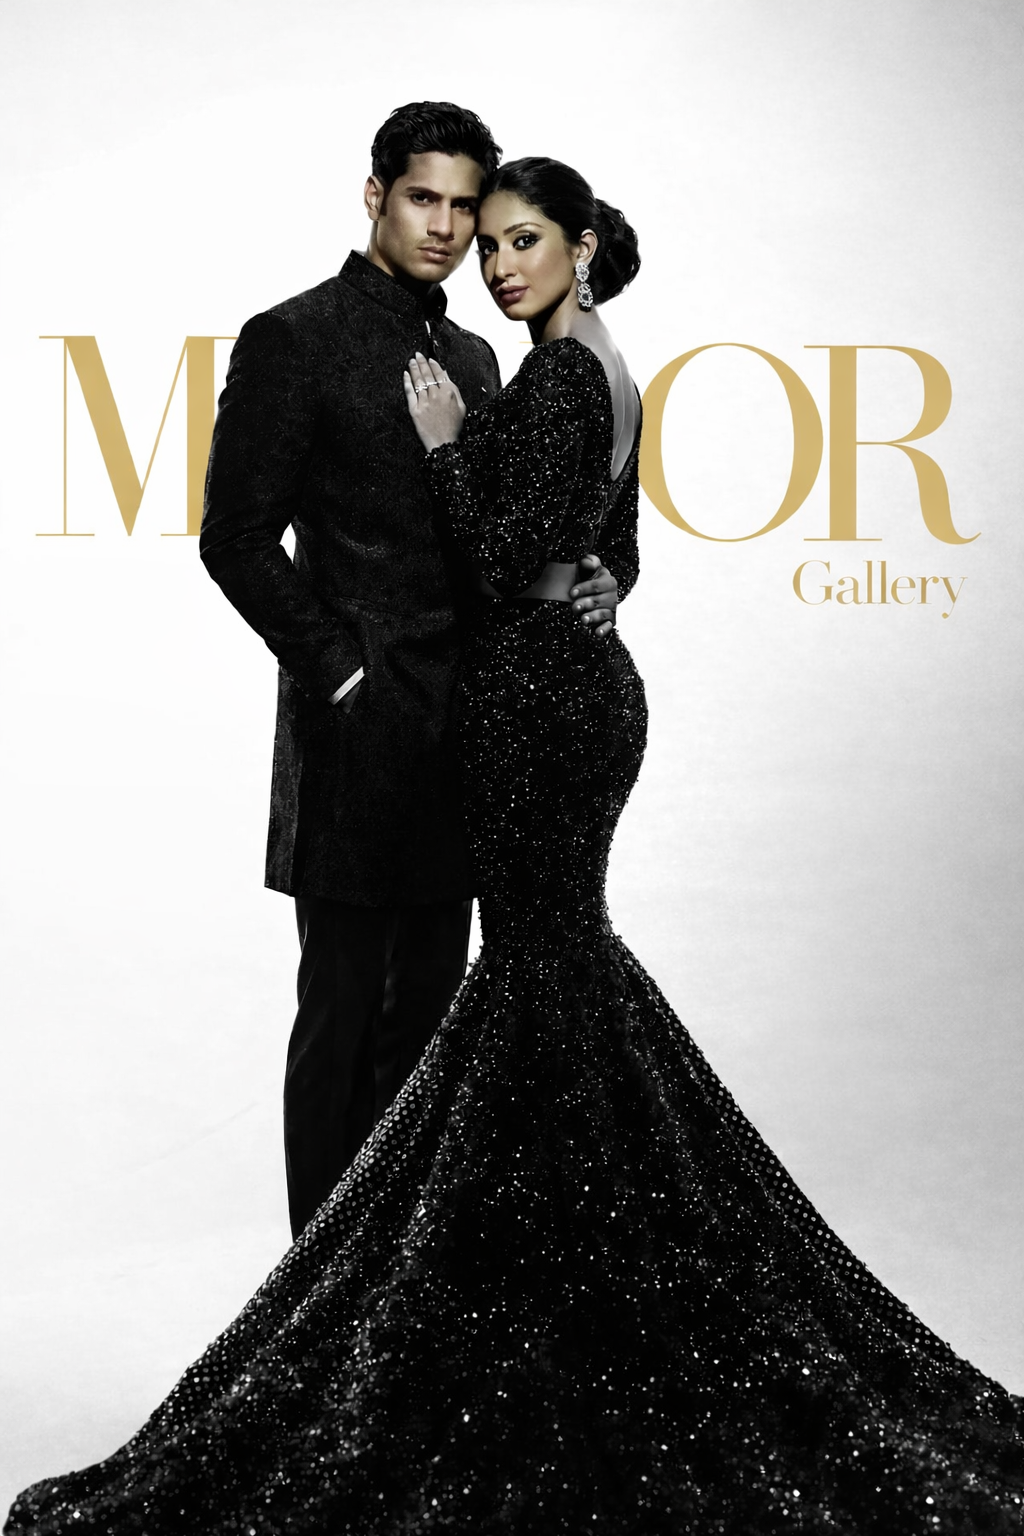
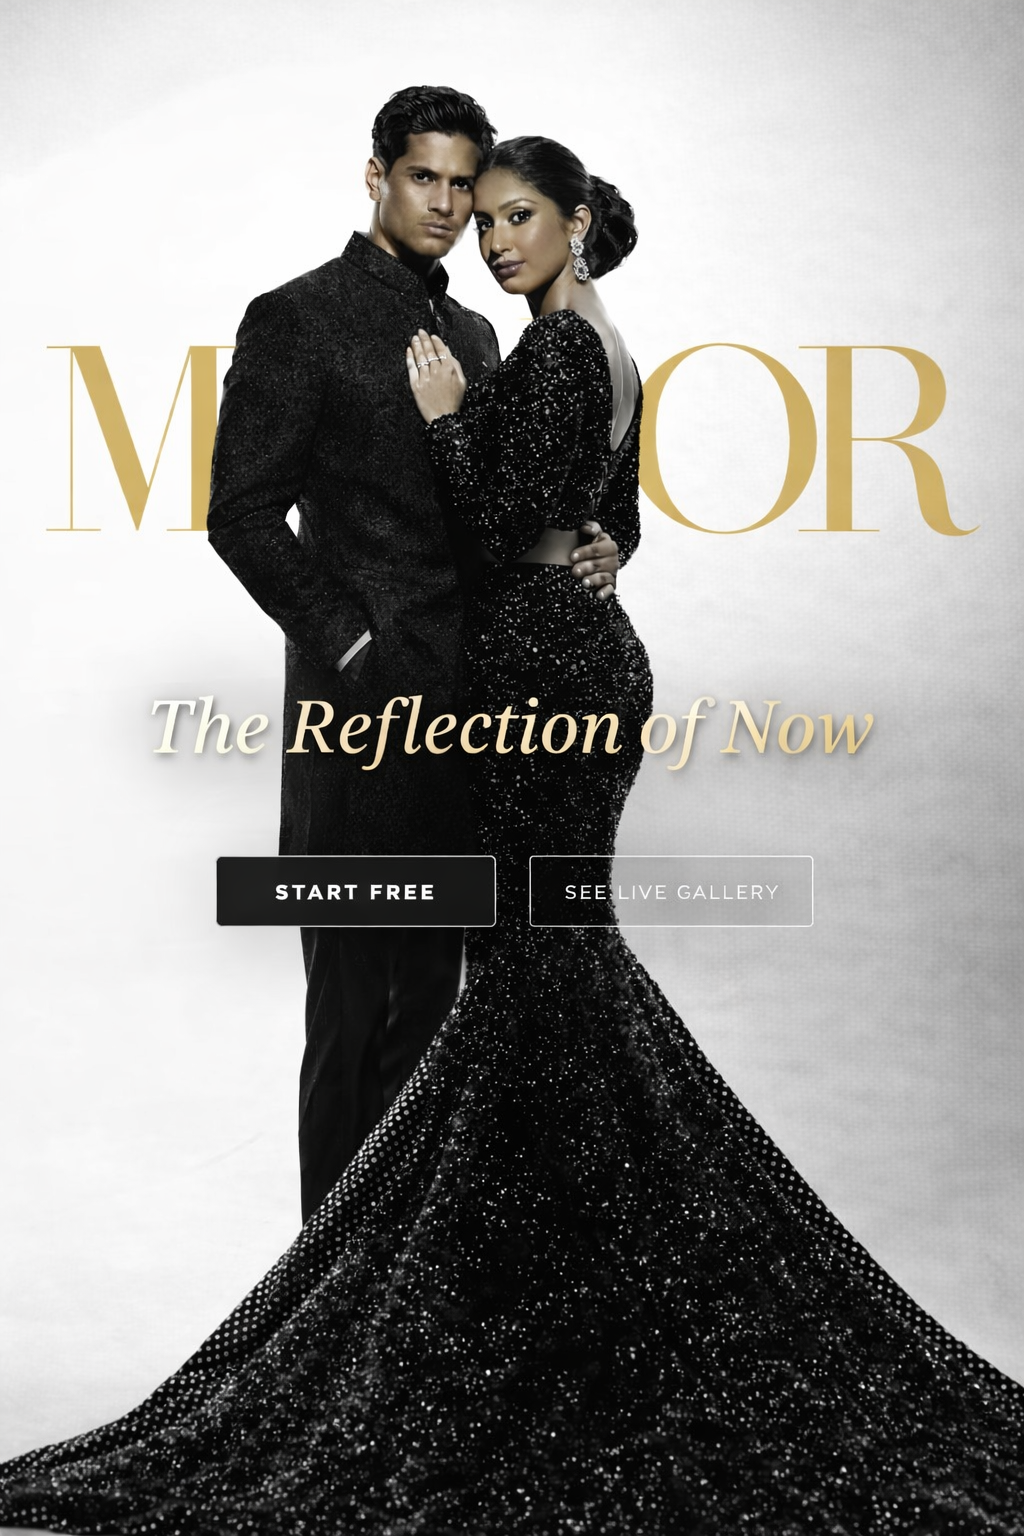
Changes

Changed region(s): [[0.0, 0.0312, 1.0, 1.0], [0.9688, 0.8125, 1.0, 0.8438]]

diff --git a/src/pages/LandingPage.tsx b/src/pages/LandingPage.tsx
@@ -5,51 +5,31 @@ const LandingPage = () => {
   const navigate = useNavigate();
 
   return (
-    <div className="relative h-[100dvh] w-full overflow-hidden">
-      {/* Fullscreen hero image */}
+    <div className="relative min-h-[100dvh] w-full flex flex-col items-center bg-[#e8e4de]">
+      {/* Hero image — final art, no overlays, no modifications */}
       <img
         src="/images/hero-bg.png"
-        alt=""
-        className="absolute inset-0 h-full w-full object-cover object-top"
+        alt="MirrorAI — The Reflection of Now"
+        className="w-full max-h-[85dvh] object-contain object-center select-none pointer-events-none"
+        draggable={false}
       />
 
-      {/* Dark overlay for readability */}
-      <div className="absolute inset-0 bg-black/45" />
-
-      {/* Content */}
-      <div className="relative z-10 flex h-full flex-col items-center justify-center text-center px-6">
-        <h1
-          className="font-display italic text-[clamp(3rem,8vw,6.5rem)] leading-[0.95] tracking-tight text-white/95 mb-4"
-          style={{ fontWeight: 500 }}
+      {/* Buttons below image to avoid overlapping art */}
+      <div className="flex items-center gap-4 py-8">
+        <Button
+          onClick={() => navigate("/register")}
+          className="min-w-[170px] h-12 bg-[#1a1a1a] text-white text-[11px] tracking-[0.18em] uppercase font-medium rounded-none hover:bg-[#333] transition-colors duration-300"
         >
-          MirrorAI
-        </h1>
+          Start Free
+        </Button>
 
-        <div className="w-12 h-px bg-white/30 mb-5" />
-
-        <p
-          className="font-serif text-[clamp(1rem,2.5vw,1.5rem)] tracking-[0.25em] uppercase text-white/70 mb-14"
-          style={{ fontWeight: 400 }}
+        <Button
+          variant="ghost"
+          onClick={() => navigate("/event/demo/gallery")}
+          className="min-w-[170px] h-12 border border-[#999] text-[#444] text-[11px] tracking-[0.18em] uppercase font-medium rounded-none hover:bg-[#d9d4cd] transition-colors duration-300"
         >
-          The Reflection of Now
-        </p>
-
-        <div className="flex flex-col sm:flex-row items-center gap-4">
-          <Button
-            onClick={() => navigate("/register")}
-            className="min-w-[180px] h-12 bg-white/10 backdrop-blur-sm border border-white/25 text-white text-[11px] tracking-[0.18em] uppercase font-medium hover:bg-white/20 transition-all duration-300"
-          >
-            Start Free
-          </Button>
-
-          <Button
-            variant="ghost"
-            onClick={() => navigate("/event/demo/gallery")}
-            className="min-w-[180px] h-12 text-white/70 text-[11px] tracking-[0.18em] uppercase font-medium hover:text-white hover:bg-white/5 transition-all duration-300"
-          >
-            See Live Gallery
-          </Button>
-        </div>
+          See Live Gallery
+        </Button>
       </div>
     </div>
   );
